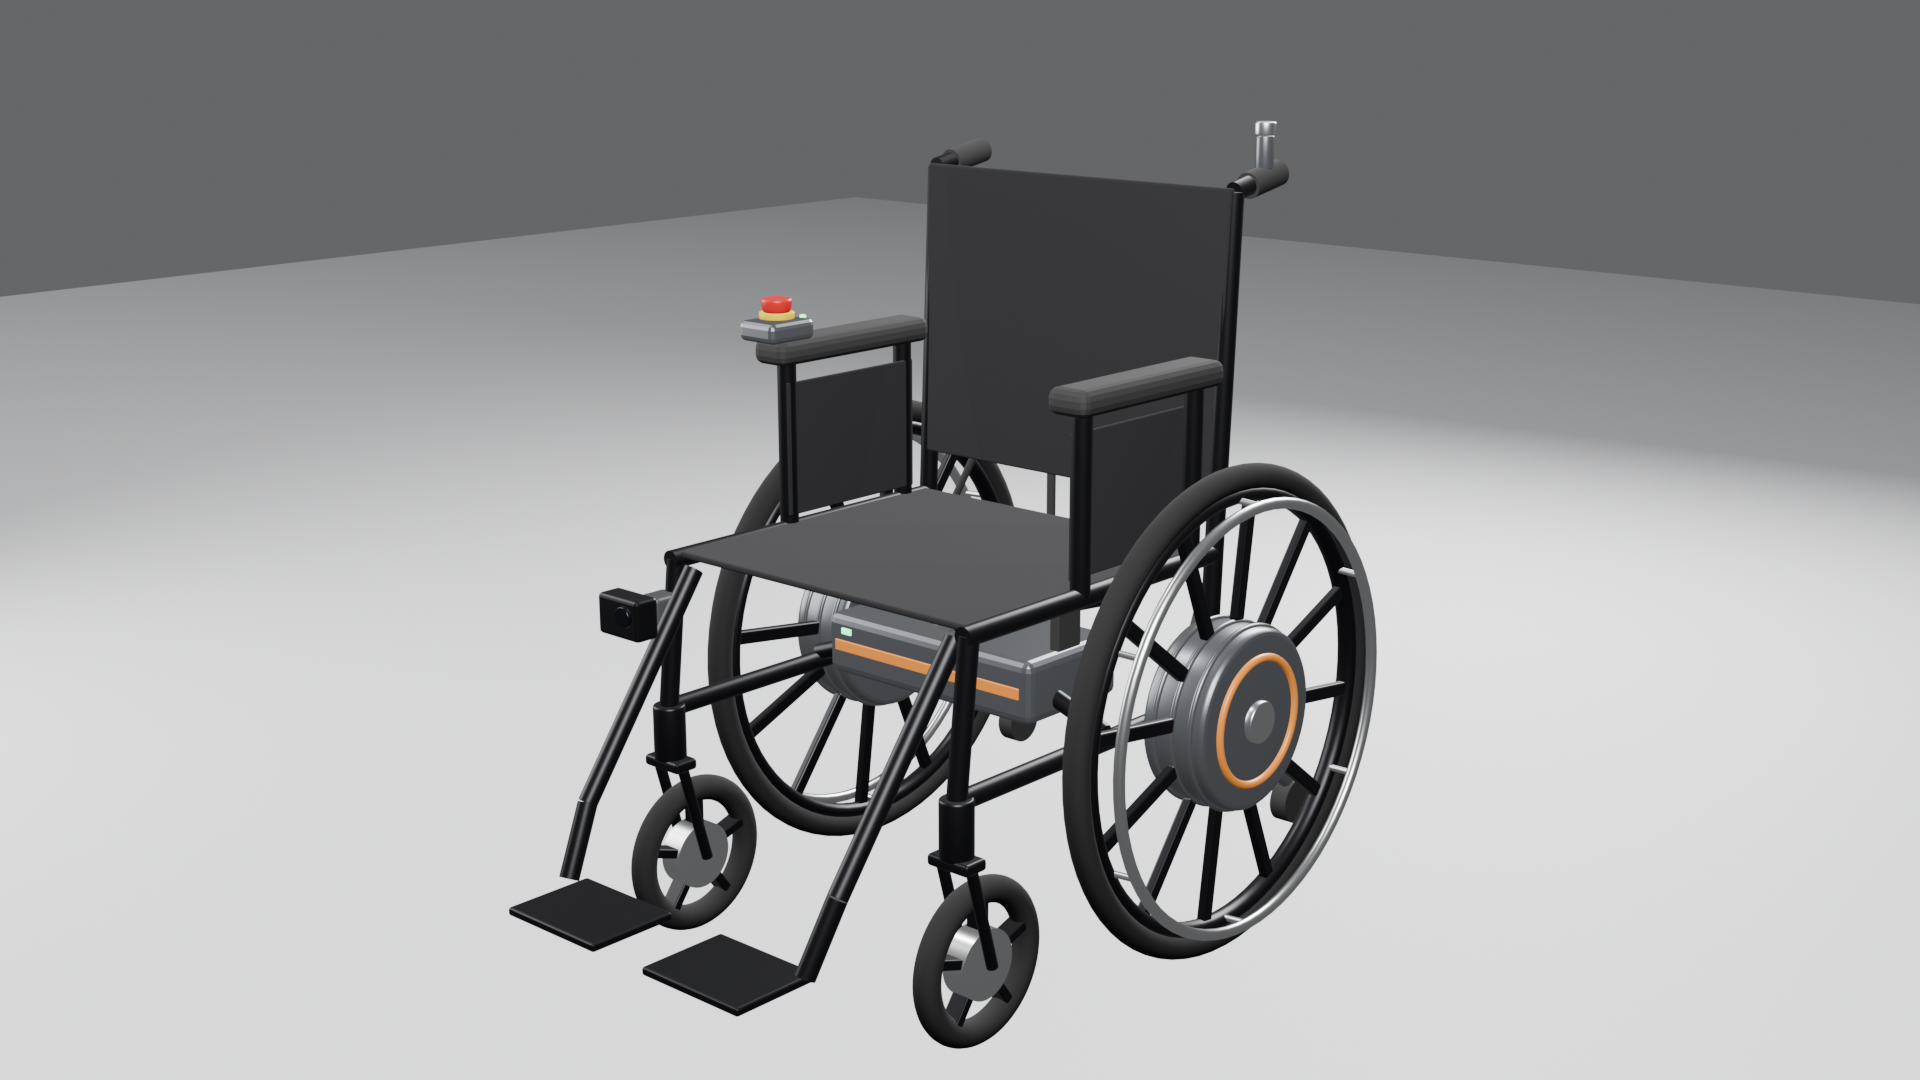
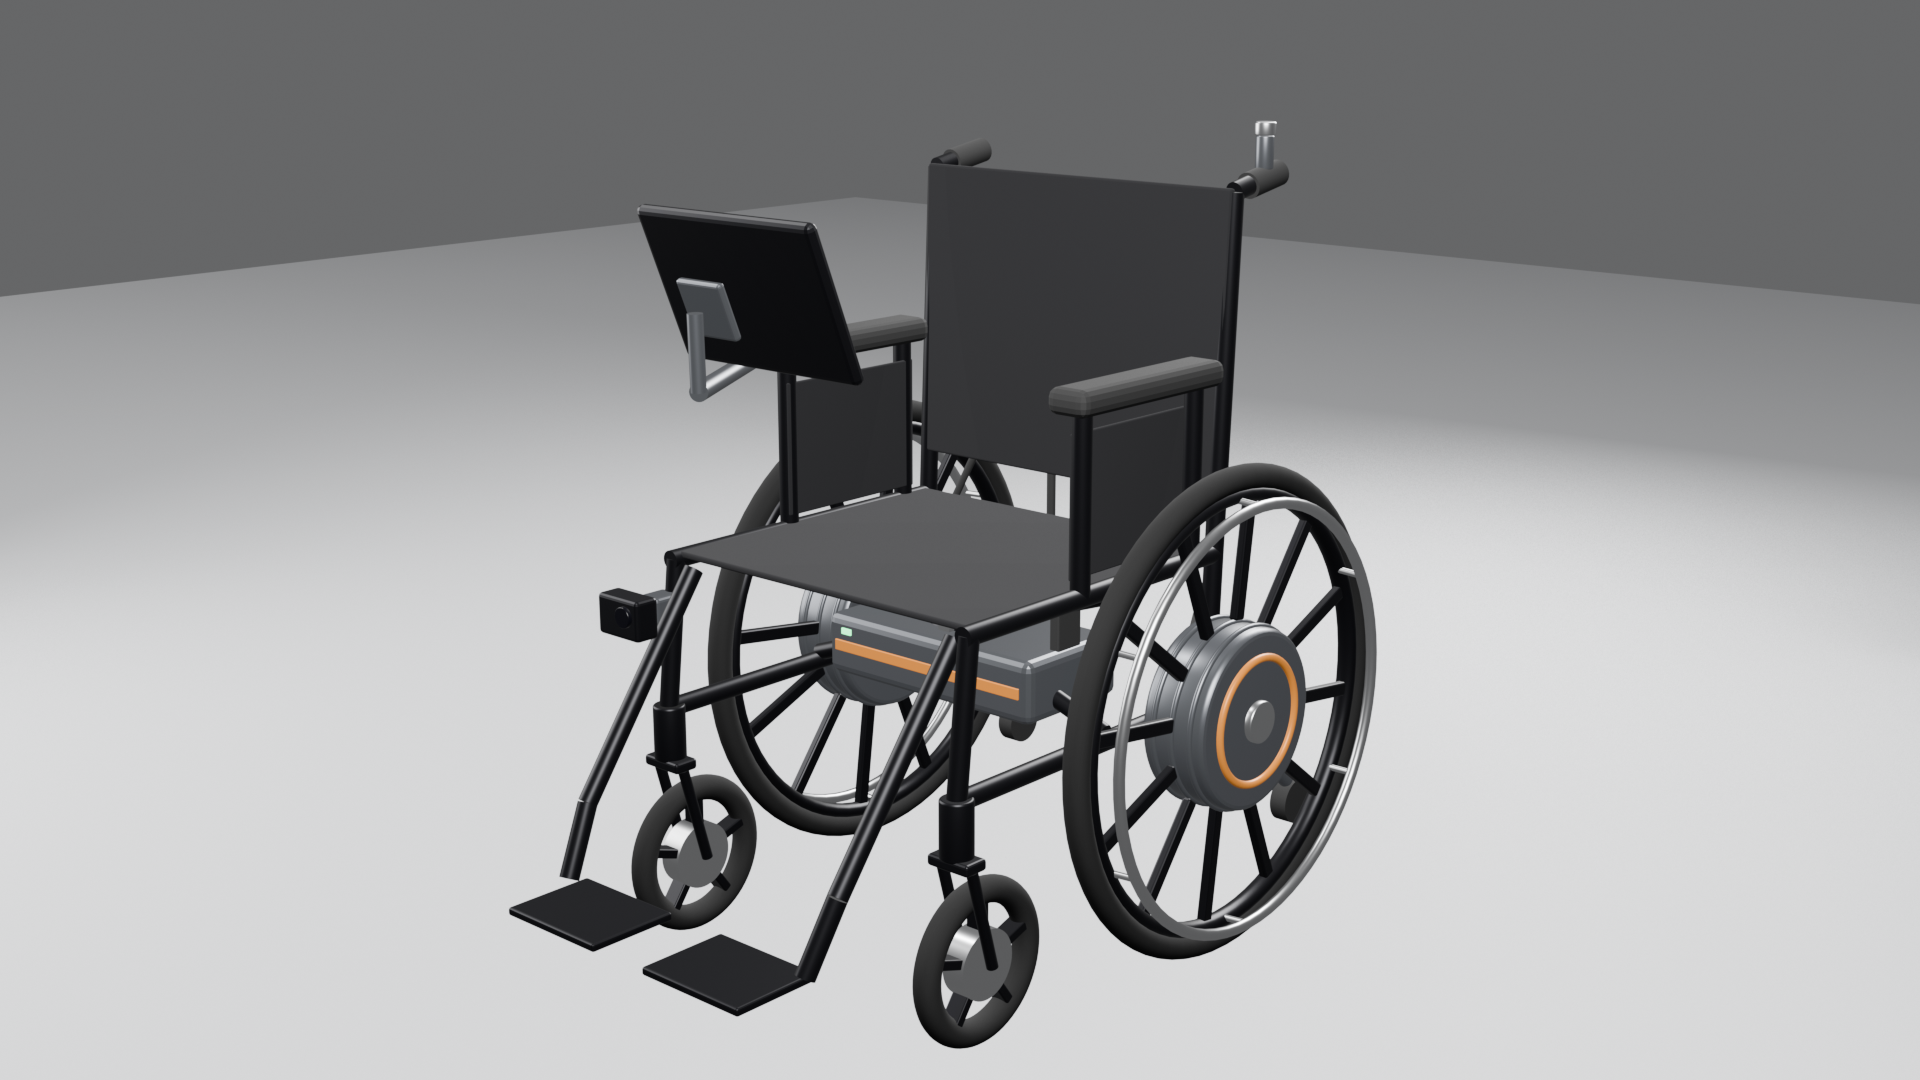
Replace E-stop with SSVEP direction screen in full-size model

Changed region(s): [[0.3125, 0.1833, 0.4688, 0.3667]]

diff --git a/cad/power_chair.py b/cad/power_chair.py
@@ -5,8 +5,8 @@ The chair is an ordinary folding wheelchair (24" rear wheels with push rims, 8" 
 and back, push handles, armrests, swing-away footrests), because the point is to upgrade the chair people
 already have. The kit adds: hub-motor rear wheels on quick-release axles, a battery pack under the seat,
 a controller/compute box (EEG decoder, co-pilot, motor control) on the back of the backrest, a forward
-camera on the front frame, a microphone on a push handle, an emergency-stop button on the armrest, and
-anti-tip bars.
+camera on the front frame, a microphone on a push handle, an SSVEP direction screen on a swing-away arm
+(up/down/left/right arrows, STOP in the middle), and anti-tip bars.
 
 Parts are modelled in mm under an empty scaled 1:1000, so lights and cameras work in metres. Run inside Blender:
     exec(open(r"C:\\Coding Projects\\neurotech\\cad\\power_chair.py").read())
@@ -40,6 +40,10 @@ PALETTE = {
     "red": dict(color=(0.75, 0.02, 0.02), metallic=0.0, rough=0.35),
     "yellow": dict(color=(1.0, 0.75, 0.0), metallic=0.0, rough=0.4),
     "led_green": dict(color=(0.1, 1.0, 0.35), emit=6.0),
+    "screen_white": dict(color=(1.0, 1.0, 1.0), emit=4.0),
+    "screen_red": dict(color=(1.0, 0.08, 0.05), emit=4.0),
+    "screen_pad": dict(color=(0.12, 0.13, 0.16), metallic=0.0, rough=0.6),
+    "screen_text": dict(color=(1.0, 1.0, 1.0), emit=3.0),
     "led_orange": dict(color=(1.0, 0.45, 0.05), emit=6.0),
     "floor": dict(color=(0.82, 0.83, 0.85), metallic=0.0, rough=0.6),
 }
@@ -207,6 +211,51 @@ def body():
 
 
 # ---------------------------------------------------------------- parts: the retrofit kit
+def flat(name, mat, pts2d, centre, rot, depth=-1.3):
+    """Flat emissive shape on the screen plane: pts2d are (u right, v up) in mm; the screen faces -y locally."""
+    bm = bmesh.new()
+    vs = [bm.verts.new(Vector(centre) + rot @ Vector((u, depth, v))) for u, v in pts2d]
+    bm.faces.new(vs)
+    return new_obj(name, bm, mat)
+
+
+def label(name, text, size, centre, rot, offset, mat="screen_text"):
+    cu = bpy.data.curves.new(name, "FONT")
+    cu.body, cu.size, cu.align_x, cu.align_y = text, size, "CENTER", "CENTER"
+    ob = bpy.data.objects.new(name, cu)
+    bpy.data.collections[COLL].objects.link(ob)
+    ob.parent = bpy.data.objects["power_chair_root"]
+    ob.data.materials.append(material(mat))
+    ob.matrix_basis = Matrix.Translation(Vector(centre) + rot @ Vector(offset)) @ rot @ Matrix.Rotation(math.pi / 2, 4, "X")
+    return ob
+
+
+def ssvep_screen(xr):
+    """SSVEP direction screen: up/down/left/right arrows and STOP in the middle, each flickering at its own rate."""
+    tube("kit_screen_post", "kit", (xr, 40, 700), (xr, 40, 728), r=11)              # swing-away arm
+    tube("kit_screen_arm", "kit", (xr, 40, 728), (60, 342, 728), r=11)               # passes under the screen
+    centre = Vector((0, 320, 840))
+    rot = Matrix.Rotation(math.radians(-22), 4, "X")                              # tilted back toward the user
+    box("kit_screen_body", "steel", centre, (270, 16, 190), rot=rot, bevel=8)
+    box("kit_screen_vesa", "kit", centre + rot @ Vector((60, 12, -20)), (70, 10, 70), rot=rot, bevel=4)
+    tube("kit_screen_clamp", "kit", (60, 342, 728), (60, 344, 815), r=9)             # up the back to the VESA plate
+    face = centre + rot @ Vector((0, -8.5, 0))
+    box("kit_screen_glass", "glass", face, (254, 1, 174), rot=rot, bevel=0)
+    s = 34                                                                       # arrow size (mm)
+    arrow = [(-0.17 * s, -0.5 * s), (0.17 * s, -0.5 * s), (0.17 * s, 0.05 * s), (0.42 * s, 0.05 * s),
+             (0, 0.55 * s), (-0.42 * s, 0.05 * s), (-0.17 * s, 0.05 * s)]
+    targets = {"up": ((0, 58), 0), "down": ((0, -58), 180), "left": ((-88, 0), 90), "right": ((88, 0), -90)}
+    for name, ((cu, cv), ang) in targets.items():
+        a = math.radians(ang)
+        pts = [(cu + x * math.cos(a) - y * math.sin(a), cv + x * math.sin(a) + y * math.cos(a)) for x, y in arrow]
+        sq = [(cu - 27, cv - 27), (cu + 27, cv - 27), (cu + 27, cv + 27), (cu - 27, cv + 27)]
+        flat(f"ssvep_pad_{name}", "screen_pad", sq, face, rot, depth=-1.0)
+        flat(f"ssvep_arrow_{name}", "screen_white", pts, face, rot, depth=-1.6)
+    flat("ssvep_pad_stop", "screen_pad", [(-27, -27), (27, -27), (27, 27), (-27, 27)], face, rot, depth=-1.0)
+    label("ssvep_stop_text", "STOP", 13, face, rot, (0, -2.2, 0), mat="screen_white")
+    label("ssvep_hint", "look to move", 7, face, rot, (90, -2.2, -72))
+
+
 def kit():
     # battery pack hung from the seat rails, under the sling
     box("kit_battery", "kit", (0, -40, 352), (330, 170, 78), bevel=12)
@@ -225,13 +274,8 @@ def kit():
         tube(f"kit_cable_b_{side}", "grip", (side * (RAIL_X - 15), -215, 420), (side * (RAIL_X + 20), WHEEL_Y + 40, WHEEL_Z + 60), r=5)
     tube("kit_cable_battery_a", "grip", (60, -125, 352), (60, -268, 420), r=6)      # behind the back sling
     tube("kit_cable_battery_b", "grip", (60, -268, 420), (60, -268, 675), r=6)
-    # emergency stop on the right armrest
     xr = RAIL_X
-    box("kit_estop_pod", "kit", (xr, 55, 742), (62, 74, 26), bevel=8)
-    cyl("kit_estop_base", "yellow", (xr, 55, 760), 22, 8, bevel=1)
-    cyl("kit_estop_button", "red", (xr, 55, 772), 17, 18, r2=20, bevel=4)
-    for k, m in enumerate(("led_green", "led_orange")):
-        cyl(f"kit_pod_led_{k}", m, (xr - 14 + 28 * k, 24, 756), 4, 4, seg=16)
+    ssvep_screen(xr)
     # forward camera (co-pilot eye) clamped to the right front upright
     cam = Vector((xr + 4, CASTER_Y + 45, 430))
     box("kit_camera_clamp", "kit", (xr, CASTER_Y + 8, 430), (34, 40, 34), bevel=5)
@@ -270,7 +314,7 @@ def reset():
 def stage():
     """Floor, world, lights and cameras for product shots."""
     sc = bpy.context.scene
-    for n in ("floor", "key", "fill", "rim", "cam_hero", "cam_side", "cam_rear", "cam_motor", "cam_front"):
+    for n in ("floor", "key", "fill", "rim", "cam_hero", "cam_side", "cam_rear", "cam_motor", "cam_front", "cam_screen"):
         o = bpy.data.objects.get(n)
         if o:
             bpy.data.objects.remove(o)
@@ -323,9 +367,10 @@ def stage():
     cam("cam_rear", (1.75, -2.2, 1.35), (0, -0.1, 0.52), lens=42)
     cam("cam_motor", (1.25, 0.45, 0.8), (0.27, -0.17, 0.38), lens=45)
     cam("cam_front", (0.85, 1.25, 0.82), (0.2, 0.25, 0.48), lens=40)
+    cam("cam_screen", (0.32, -0.32, 1.32), (0.0, 0.32, 0.83), lens=35)   # over the user's shoulder
 
 
-def render(names=("cam_hero", "cam_side", "cam_rear", "cam_motor", "cam_front"), res=(1920, 1080), samples=64):
+def render(names=("cam_hero", "cam_side", "cam_rear", "cam_motor", "cam_front", "cam_screen"), res=(1920, 1080), samples=64):
     sc = bpy.context.scene
     os.makedirs(OUT, exist_ok=True)
     sc.render.resolution_x, sc.render.resolution_y = res

diff --git a/cad/README.md b/cad/README.md
@@ -7,7 +7,7 @@ Tabletop demo of a motorized wheelchair. Two Sphero BOLTs (73 mm balls) are the 
 The model is generated by [`wheelchair.py`](wheelchair.py) inside Blender (exec the file); it rebuilds both chairs and rewrites every STL in [`stl/`](stl). Change the numbers at the top of the script, never the STLs. File names end in `_xN` = how many to print.
 
 ## Full-size concept (presentation renders, not printed)
-`power_chair.py` (run in Blender) models the real-world version: an ordinary folding manual wheelchair plus a **retrofit kit**, because the point is to upgrade the chair people already have rather than sell an expensive power chair. Kit: hub-motor rear wheels on quick-release axles (push rims kept), battery under the seat, controller/compute box on the back of the backrest, forward camera on the front frame, microphone on a push handle, emergency-stop button on the armrest, anti-tip bars. Renders in `renders/` (hero, side, rear, motor close-up, front close-up).
+`power_chair.py` (run in Blender) models the real-world version: an ordinary folding manual wheelchair plus a **retrofit kit**, because the point is to upgrade the chair people already have rather than sell an expensive power chair. Kit: hub-motor rear wheels on quick-release axles (push rims kept), battery under the seat, controller/compute box on the back of the backrest, forward camera on the front frame, microphone on a push handle, an SSVEP direction screen on a swing-away arm (up/down/left/right arrows, STOP in the middle), anti-tip bars. Renders in `renders/` (hero, side, rear, motor close-up, front close-up, screen close-up over the user's shoulder).
 
 ## Key design choices (why it looks like this)
 - **Each BOLT sits in a cone "ring", not a grippy cup.** The top of a rolling ball moves at twice the ball's speed, so a high-friction pad would shove the chair forward off the ball. The ring touches the ball only on a thin circle 50 degrees down from its top: the ball spins freely underneath and pushes the ring (and chair) along. A cone seats any ball size, so no fit-test print is needed.

diff --git a/ideas.md b/ideas.md
@@ -191,7 +191,7 @@ Servo glove was judged too expensive and difficult (about $30 to $40 per servo p
 - **Supervised autopilot built:** `vision_assist.py --chair` sends a hold while a close obstacle (person, dog, chair, bag...) is in the middle third of the view; `sound_assist.py --chair` sends a 3 s hold on alarms, sirens, doorbell, knocking etc. The driver stops while held, pauses the route and resumes it afterwards; priority brake > keyboard > hold > route; tested (unit tests + simulation with decoder and camera senders at once). Not yet tried on the real chair.
 - Judge-facing `README.md` and `docs/pitch.md` (3-minute plan, video storyboard, likely questions) drafted.
 
-**Full-size concept (renders for the slides):** `cad/power_chair.py` + `cad/renders/`. A standard folding manual wheelchair with a retrofit kit (hub-motor rear wheels, battery under the seat, controller on the backrest, front camera, mic, E-stop, anti-tip bars). Framing: "upgrade the chair you already own". The tabletop prototype uses front Sphero drive only because of the miniature scale.
+**Full-size concept (renders for the slides):** `cad/power_chair.py` + `cad/renders/`. A standard folding manual wheelchair with a retrofit kit (hub-motor rear wheels, battery under the seat, controller on the backrest, front camera, mic, SSVEP direction screen with arrows + STOP, anti-tip bars). Framing: "upgrade the chair you already own". The tabletop prototype uses front Sphero drive only because of the miniature scale.
 
 **Risks and checks**
 - Push test before the heavy plate: a light board with about 150 g resting on both balls (plus something rolling at the back), then drive forward. If the balls spin or wobble in place instead of rolling, the chair needs to get lighter.

diff --git a/docs/pitch.md b/docs/pitch.md
@@ -11,7 +11,7 @@ Working title: **"Supervised autopilot for brain-controlled wheelchairs"**. One-
 | 1:10-1:45 | 4. How it works | EEG: 4 flickering targets, CCA decoder on 8 back-of-head channels: **87.5 % with no calibration** (chance 25 %), 90-92.5 % with a 3-minute calibration, 85 % running live. Chair: 3D-printed, two Sphero balls as drive wheels. Co-pilot: YOLO object detection ("person ahead"), YAMNet sound alerts for deaf users. Brake always wins. |
 | 1:45-2:15 | 5. What we learned (honest science) | The brain brake isn't ready: before the hand moves, EEG only weakly separates danger from harmless (AUC 0.67), so the brake stays on a key. The 12 Hz target sits next to this subject's alpha rhythm, which is where every decoder error landed; next version moves it to 15/20 Hz. |
 | 2:15-2:45 | 6. Why it scales | Works with any LSL headset; training-free decoder; same control software would drive a real power chair; co-pilot also serves blind and deaf users. Cheap parts: a printed frame, two toy robots, a GoPro, a laptop. |
-| (in slide 6) | Full-size render | Show `cad/renders/power_chair_hero.png` / `_rear.png`: "the real version is a retrofit kit for the standard wheelchair people already own: hub-motor wheels, a battery, a controller, a camera, an E-stop." |
+| (in slide 6) | Full-size render | Show `cad/renders/power_chair_hero.png` / `_rear.png`: "the real version is a retrofit kit for the standard wheelchair people already own: hub-motor wheels, a battery, a controller, a camera, and a screen where you look at an arrow (or STOP) to move." |
 | 2:45-3:00 | 7. Close + team | "You choose. It keeps you safe." Team names, repo link. |
 
 ## Video storyboard (20-30 s)
